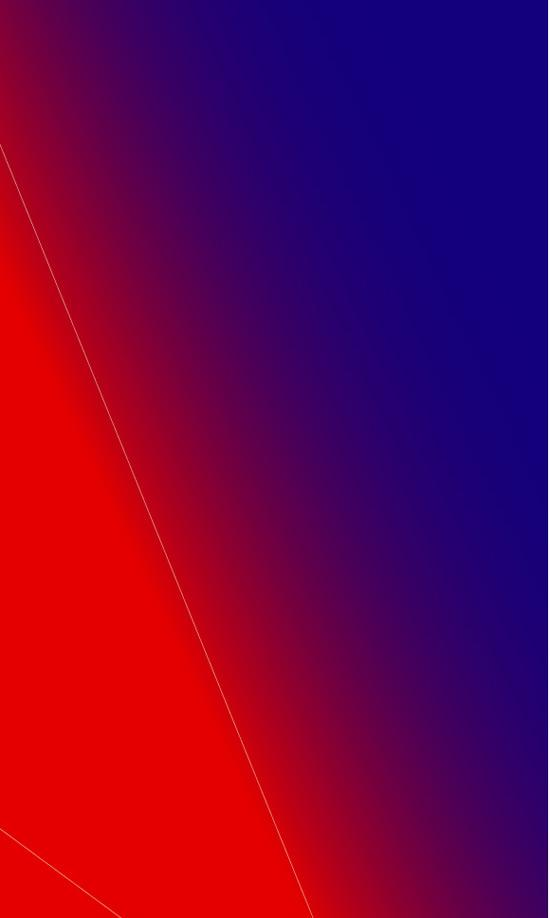
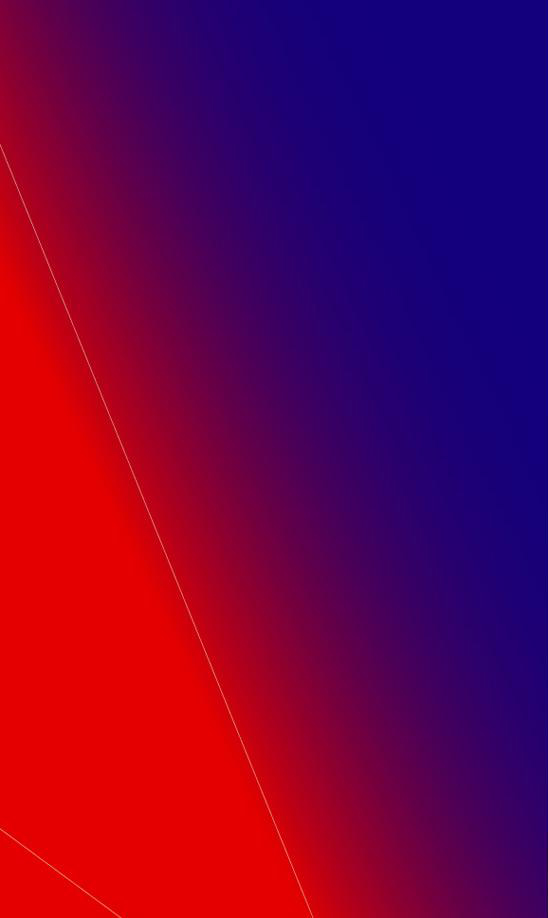
多次绘制有效

diff --git a/miniprogram/pages/index/index.js b/miniprogram/pages/index/index.js
@@ -19,7 +19,7 @@ Page({
     canvasHeight: '',
     canvasShow: true,
     canvasLeft: "750rpx",
-    backgroundPic: "/images/b19a.jpg",
+    backgroundPic: "/images/jianbian.jpg",
     backgroundPicInfo: '',
     showWebPage: false,
     nowArrayTask: 0,
@@ -230,23 +230,6 @@ Page({
   },
 
   onLoad: function(option) {
-
-    for (var i = 0; i < 12; i++) {
-      if (i < 5) {
-        console.log("i<5");
-        continue;
-      } else {
-        console.log("i>5");
-      }
-    }
-
-    if (!wx.cloud) {
-      wx.redirectTo({
-        url: '../chooseLib/chooseLib',
-      })
-      return
-    }
-
     // 获取用户信息
     wx.getSetting({
       success: res => {
